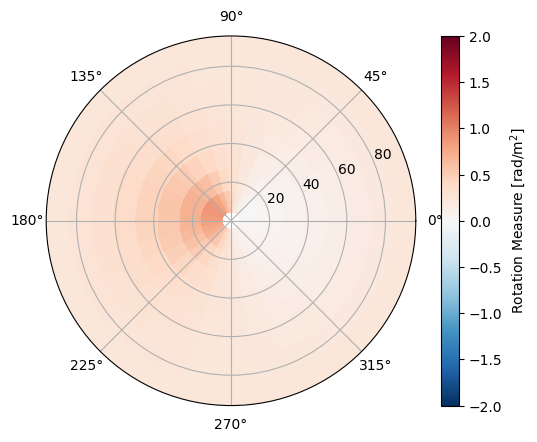
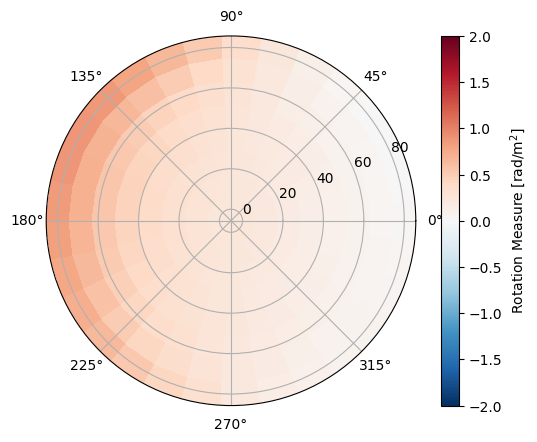
change example from elevation to zenith angle

diff --git a/README.md b/README.md
@@ -40,7 +40,7 @@ spinifex  --help
 
 <div style="text-align:center"><img src="_static/altaz_example.png" width="300" height="300" />
 <br />
-<i>Example of RM output as function of azimuth and elevation</i>
+<i>Example of RM output as function of azimuth and zenith angle</i>
 </div>
 
 Full documentation and examples of the Python module and the command-line tools are available on
